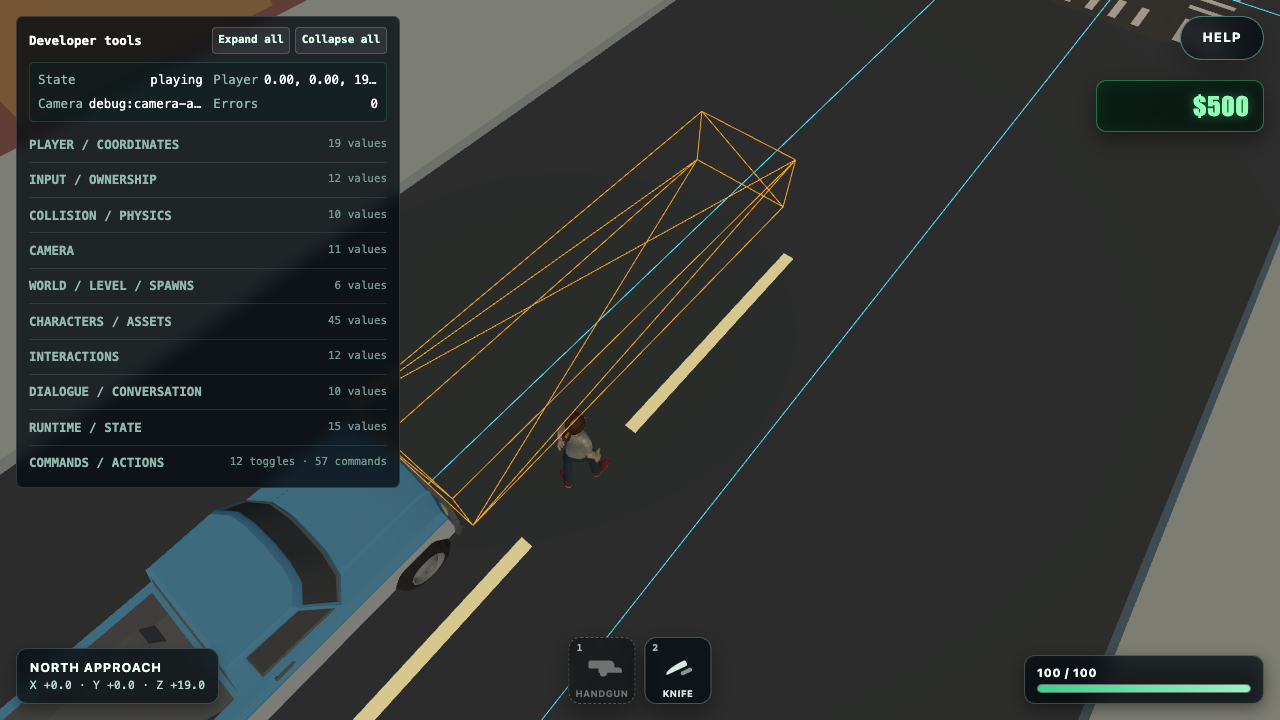
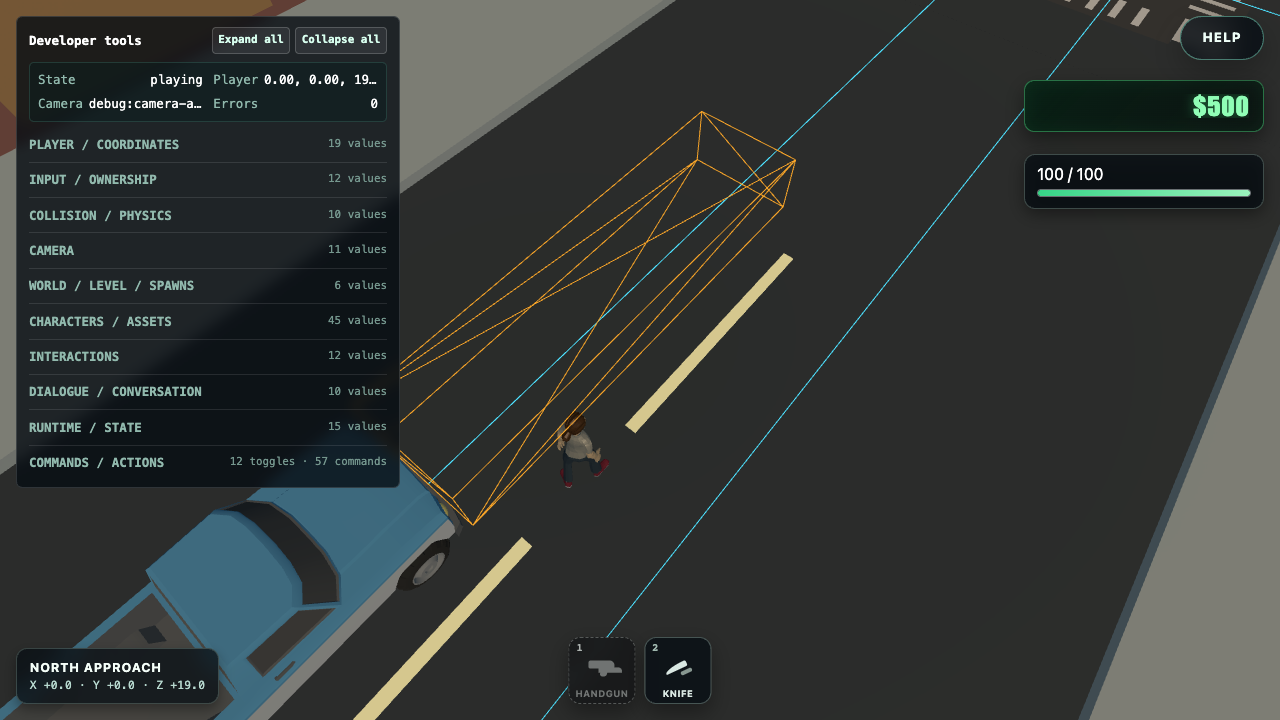
test: cover integrated traffic debug controls

Changed region(s): [[0.7812, 0.8861, 1.0, 1.0], [0.7812, 0.2139, 1.0, 0.3056], [0.7812, 0.0917, 0.875, 0.1833]]

diff --git a/e2e/playable-debug-smoke.spec.ts b/e2e/playable-debug-smoke.spec.ts
@@ -212,6 +212,9 @@ test.describe('playable debug district', () => {
         'conversation.end',
         'level.reload',
         'player.teleport',
+        'traffic.spawn-each-approach',
+        'traffic.clear',
+        'traffic.step',
       ]),
     );
     const retainedToggles = await actions
@@ -231,6 +234,7 @@ test.describe('playable debug district', () => {
       'sparring-target.active',
       'camera.invert-y',
       'camera.automatic-recenter',
+      'traffic.enabled',
     ]);
 
     const positionBeforeTyping = (await snapshot(page)).player.position;